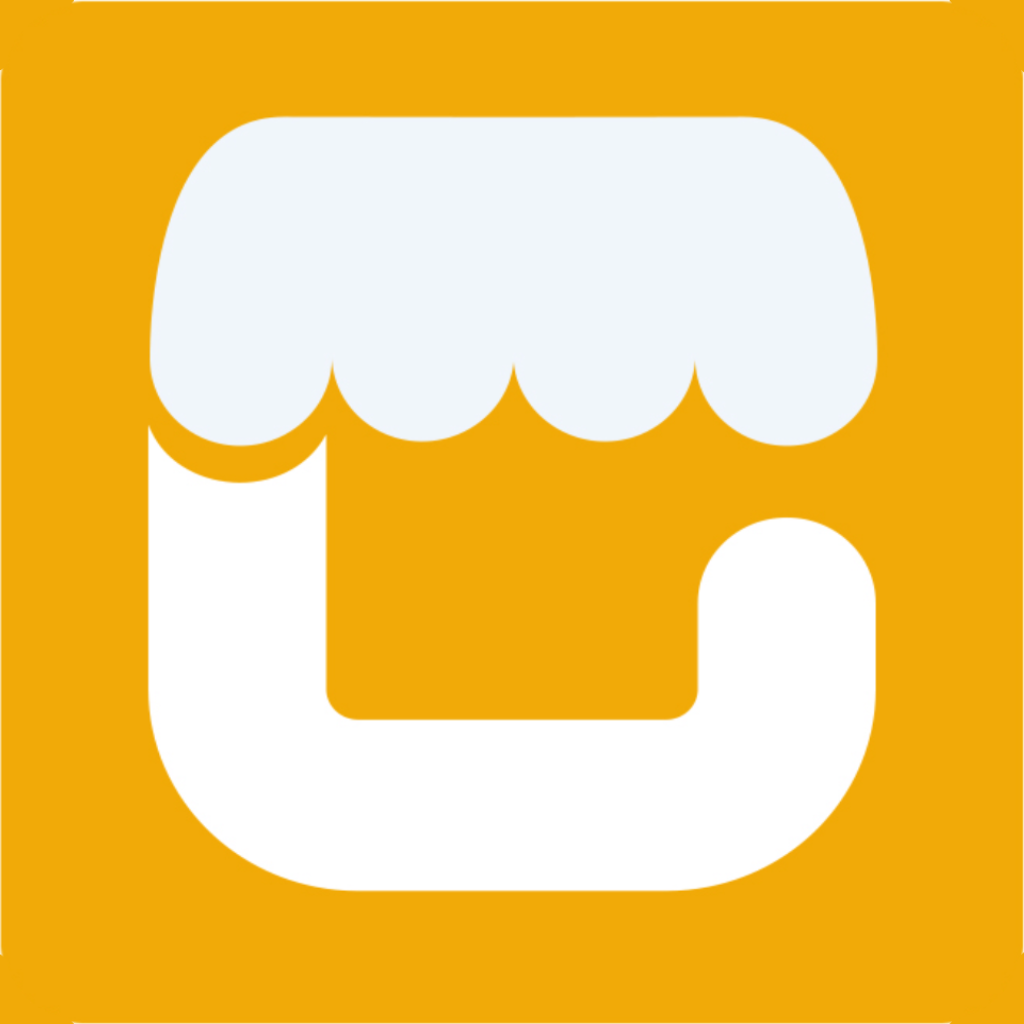
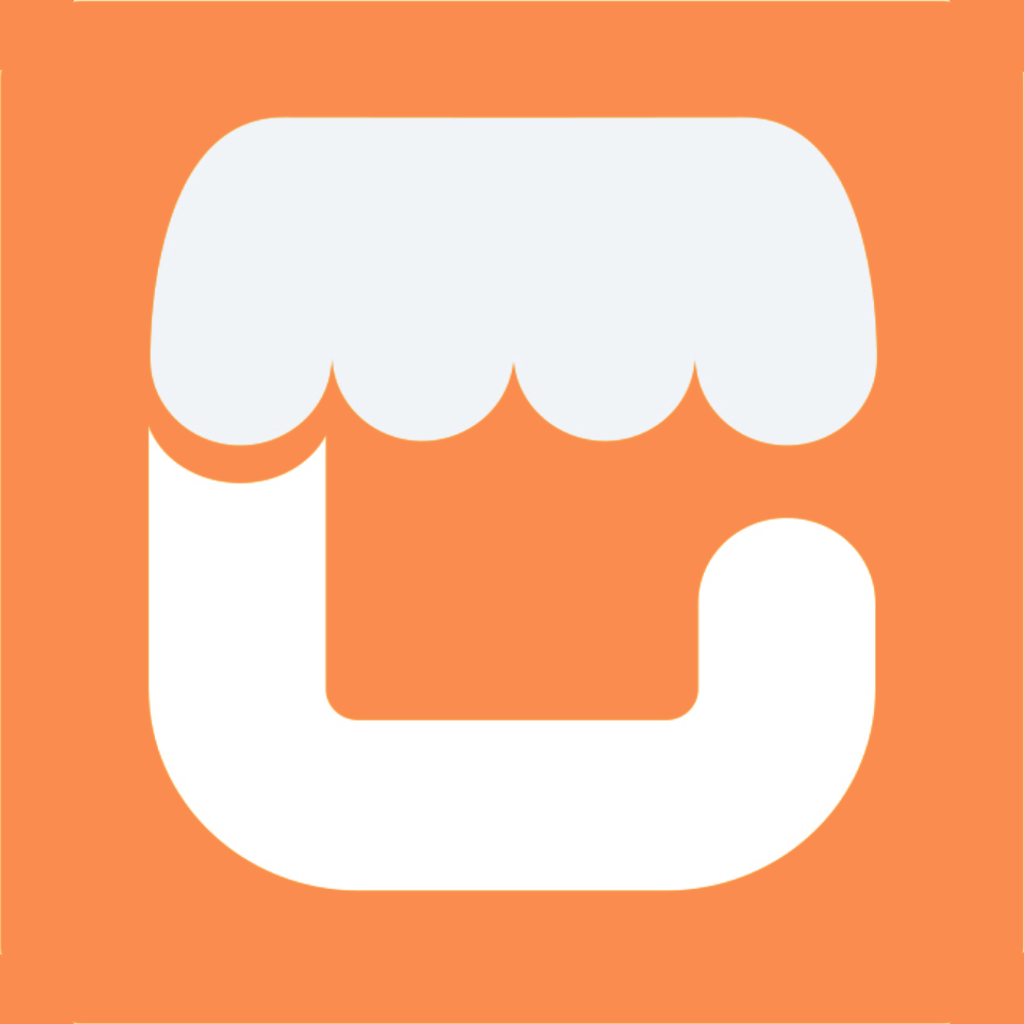
feat: cambiar tema de tienda.html de morado a naranja de marca (#FB8C50) (#28)
- --accent/--accent-l ahora usan el naranja de marca en vez del morado viejo
- btn-wa y btn-tel (WhatsApp/Llamar) pasan de verde a degradado naranja, igual que btn-web
- boton "Consultar por WhatsApp" del popup de producto tambien a degradado naranja
- box-shadow del boton de info (i) del header actualizado a naranja
- logo generico del banner de descarga (icon.png) actualizado a fondo naranja

Precio de producto y del popup ya usaban var(--accent), quedan naranja automaticamente.

diff --git a/admin/tienda.html b/admin/tienda.html
@@ -13,8 +13,8 @@
   <style>
     *, *::before, *::after { box-sizing: border-box; margin: 0; padding: 0; }
     :root {
-      --accent:   #6c3fc5;
-      --accent-l: #8b5cf6;
+      --accent:   #FB8C50;
+      --accent-l: #FFB27E;
       --bg:       #f7f8fa;
       --card:     #ffffff;
       --border:   #eaecf0;
@@ -142,8 +142,8 @@
     }
     .btn-c:hover { filter: brightness(1.08); transform: translateY(-1px); }
     .btn-c:active { transform: translateY(0); }
-    .btn-wa  { background: linear-gradient(135deg, #25D366, #1aaf53); }
-    .btn-tel { background: linear-gradient(135deg, #059669, #047857); }
+    .btn-wa  { background: linear-gradient(135deg, var(--accent), var(--accent-l)); }
+    .btn-tel { background: linear-gradient(135deg, var(--accent), var(--accent-l)); }
     .btn-web { background: linear-gradient(135deg, var(--accent), var(--accent-l)); }
 
     /* ── INFO ROWS ──────────────────────────────── */
@@ -322,7 +322,7 @@
     }
     .btn-wa-modal {
       display: flex; align-items: center; justify-content: center; gap: 9px;
-      background: linear-gradient(135deg, #25D366, #1aaf53);
+      background: linear-gradient(135deg, var(--accent), var(--accent-l));
       color: #fff; border: none; border-radius: 14px;
       padding: 15px; font-size: 15px; font-weight: 800;
       cursor: pointer; text-decoration: none;
@@ -358,10 +358,10 @@
       width: 34px; height: 34px; border-radius: 50%; flex-shrink: 0;
       background: linear-gradient(135deg, var(--accent), var(--accent-l));
       display: flex; align-items: center; justify-content: center;
-      box-shadow: 0 2px 8px rgba(108,63,197,.35);
+      box-shadow: 0 2px 8px rgba(251,140,80,.35);
       transition: box-shadow .2s, transform .15s;
     }
-    .btn-info:hover { box-shadow: 0 4px 16px rgba(108,63,197,.45); transform: scale(1.07); }
+    .btn-info:hover { box-shadow: 0 4px 16px rgba(251,140,80,.45); transform: scale(1.07); }
     .btn-info svg { width: 18px; height: 18px; fill: #fff; }
 
     /* ── MODAL INFO TIENDA ──────────────────────── */
